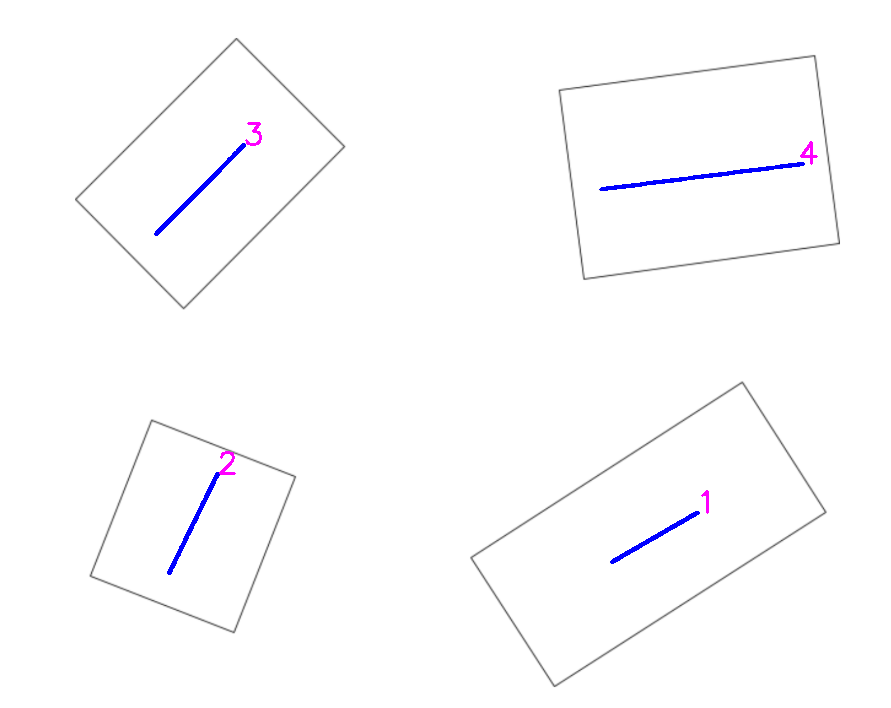
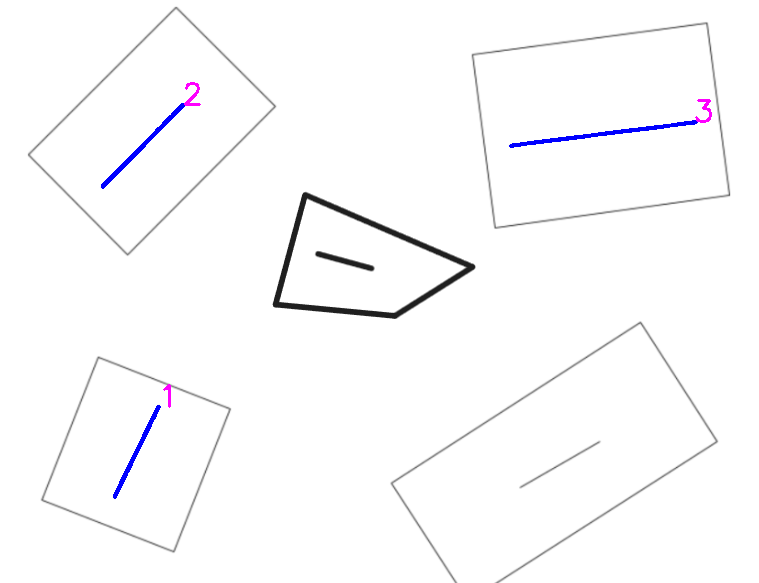
final

diff --git a/rectangle_numbering.py b/rectangle_numbering.py
@@ -3,7 +3,9 @@ import matplotlib.pyplot as plt
 from math import hypot
 from itertools import combinations
 import os
-#this is to calculate distance between points
+import numpy as np
+
+# this is to calculate distance between points
 def max_distance(points):
     pts = points.reshape(-1, 2)
     max_d = 0
@@ -13,17 +15,48 @@ def max_distance(points):
             max_d = dist
     return max_d
 
-#find all rectangles
+# Calculate angle between vectors pt0->pt1 and pt0->pt2
+def angle(pt1, pt2, pt0):
+    dx1 = pt1[0] - pt0[0]
+    dy1 = pt1[1] - pt0[1]
+    dx2 = pt2[0] - pt0[0]
+    dy2 = pt2[1] - pt0[1]
+    # dot product and magnitude
+    dot = dx1 * dx2 + dy1 * dy2
+    mag1 = np.sqrt(dx1*dx1 + dy1*dy1)
+    mag2 = np.sqrt(dx2*dx2 + dy2*dy2)
+    if mag1 * mag2 == 0:
+        return 0
+    cos_angle = dot / (mag1 * mag2)
+    # Clamp cos_angle to [-1, 1] to avoid numerical errors
+    cos_angle = max(min(cos_angle, 1), -1)
+    ang = np.arccos(cos_angle) * 180 / np.pi
+    return ang
+
+# Check if approx polygon is rectangle by verifying all angles ~90 degrees
+def is_rectangle(approx, max_deviation=10):
+    if len(approx) != 4:
+        return False
+    for i in range(4):
+        pt0 = approx[i][0]
+        pt1 = approx[(i + 1) % 4][0]
+        pt2 = approx[(i + 3) % 4][0]
+        ang = angle(pt1, pt2, pt0)
+        if abs(ang - 90) > max_deviation:
+            return False
+    return True
+
+# find only rectangles
 def find_rectangles(contours):
     rects_found = []
     for i, cnt in enumerate(contours):
         approx = cv2.approxPolyDP(cnt, 0.02 * cv2.arcLength(cnt, True), True)
-        if len(approx) == 4:
+        if len(approx) == 4 and is_rectangle(approx):
             x, y, w, h = cv2.boundingRect(cnt)
             rects_found.append((x, y, w, h, i))
     return rects_found
 
-#find lines which are inside the rectangle and sort them based on their length
+# find lines which are inside the rectangle and sort them based on their length
 def find_and_number_lines_inside(contours, hierarchy, rects):
     lines_inside = []
     for i, cnt in enumerate(contours):
@@ -41,36 +74,29 @@ def find_and_number_lines_inside(contours, hierarchy, rects):
     line_nums = {idx: n+1 for n, (_, idx) in enumerate(lines_inside)}
     return lines_inside, line_nums
 
-#drawing and assigning numbers to line according to their length
+# drawing and assigning numbers to line according to their length
 def draw_lines_and_numbers(img, contours, lines_inside, line_nums):
     for dist, idx in lines_inside:
         cv2.drawContours(img, [contours[idx]], -1, (255, 0, 0), 2)
         pt = tuple(contours[idx][0][0])  
         cv2.putText(img, str(line_nums[idx]), pt, cv2.FONT_HERSHEY_SIMPLEX, 1, (255, 0, 255), 2)
 
-
-
-#put the path of ur input image here
+# put the path of your input image here
 img = cv2.imread('image.png')
-
-
 
 gray = cv2.cvtColor(img, cv2.COLOR_BGR2GRAY)
 _, thresh = cv2.threshold(gray, 200, 255, cv2.THRESH_BINARY_INV)
 contours, hierarchy = cv2.findContours(thresh, cv2.RETR_TREE, cv2.CHAIN_APPROX_SIMPLE)
 output = img.copy()
 
-
 rects = find_rectangles(contours)
 lines_inside, line_nums = find_and_number_lines_inside(contours, hierarchy, rects)
 draw_lines_and_numbers(output, contours, lines_inside, line_nums)
 
-
 plt.imshow(cv2.cvtColor(output, cv2.COLOR_BGR2RGB))
+plt.axis('off')
+plt.show()
 
 output_dir = 'task1-output'
 os.makedirs(output_dir, exist_ok=True)
 cv2.imwrite(os.path.join(output_dir, 'output_image.png'), output)
-
-plt.axis('off')
-plt.show()
